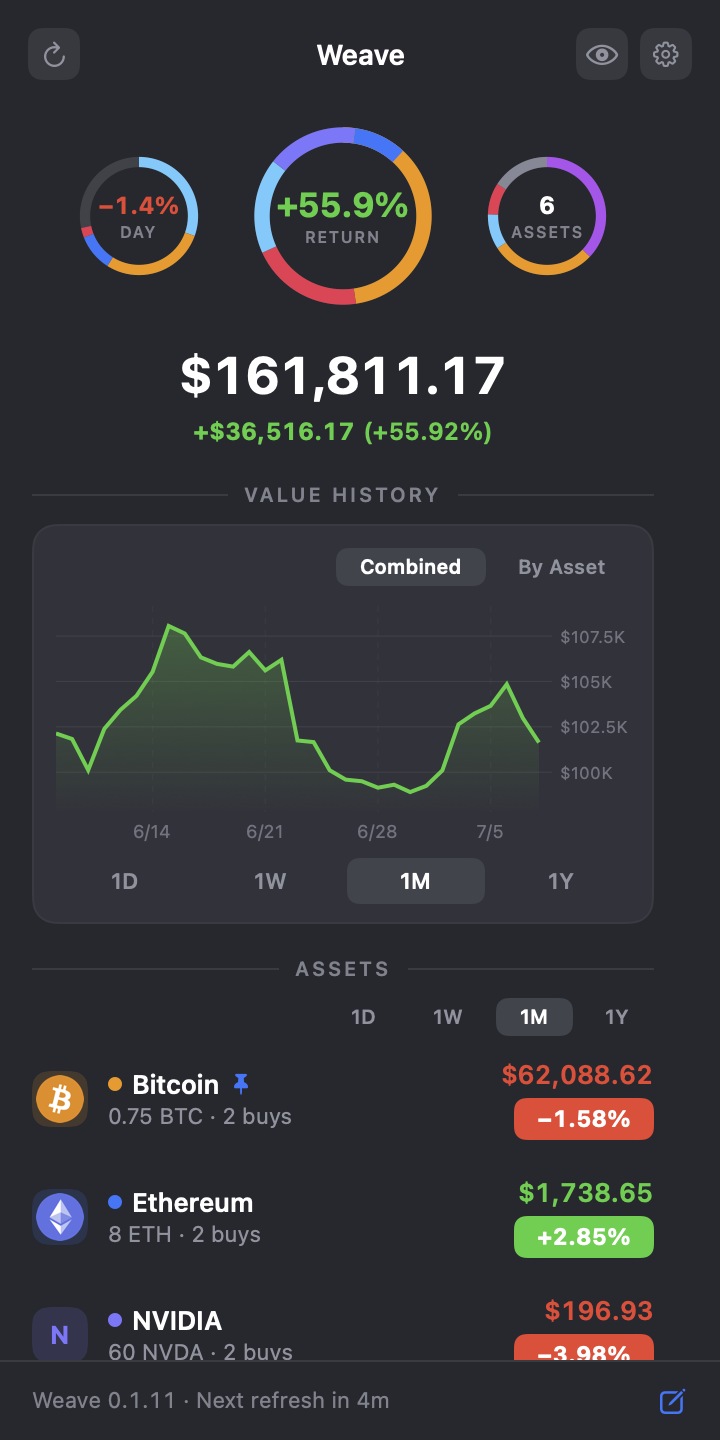
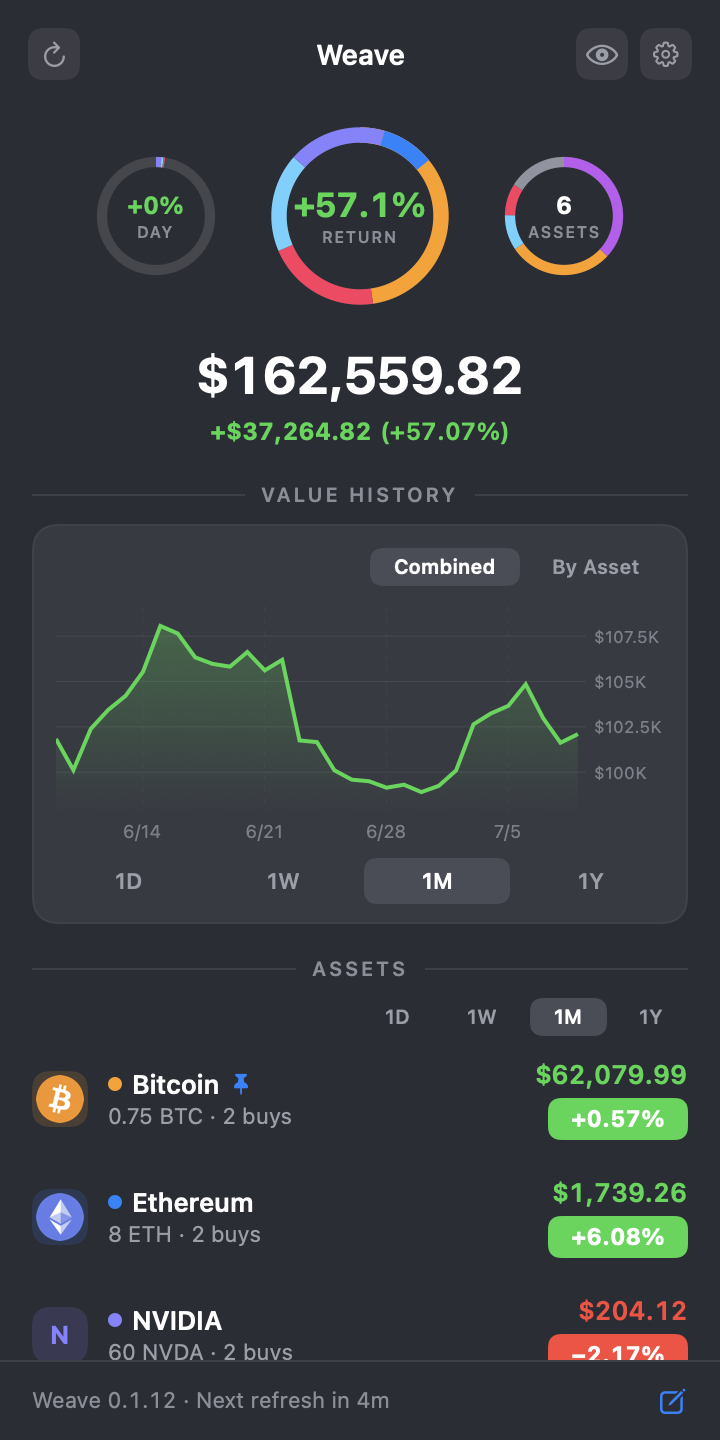
feat: support 4 screenshot captures (portfolio, asset detail, By Asset, menu bar)
Specify the state via WEAVE_SHOT_STATE: home-combined/detail/home-byasset render
the popover, while menubar renders the menu bar label on a dark strip (plus a clock).
Popover capture retries if it can't grab the window (guarding against a dropped first click), and the
dark appearance is locked during a shot. Access the label image via AppModel.shared.

diff --git a/Sources/Weave/WeaveApp.swift b/Sources/Weave/WeaveApp.swift
@@ -31,37 +31,110 @@ final class AppDelegate: NSObject, NSApplicationDelegate {
 
         let env = ProcessInfo.processInfo.environment
         // 개발용: 스크린샷 자동화를 위해 실행 직후 팝오버를 연다.
-        if env["WEAVE_OPEN_POPOVER"] == "1" || env["WEAVE_SHOT"] != nil {
+        if env["WEAVE_OPEN_POPOVER"] == "1" {
             DispatchQueue.main.asyncAfter(deadline: .now() + 1.5) {
                 HotkeyManager.toggleMenuBarWindow()
             }
         }
-        // 개발용: 팝오버가 열린 뒤 그 창을 자체 렌더해 PNG로 저장하고 종료한다.
-        // 자기 뷰를 비트맵으로 캐시하는 방식이라 화면 녹화 권한이 필요 없다.
+        // 개발용: 시드 상태를 자체 렌더해 PNG로 저장하고 종료(화면 녹화 권한 불필요).
+        // menubar 상태는 상태바 아이템 창을, 그 외는 팝오버 창을 캡처한다.
         if let shotPath = env["WEAVE_SHOT"] {
-            let delay = Double(env["WEAVE_SHOT_DELAY"] ?? "") ?? 10
+            // 라벨 이름색(labelColor)이 어두운 배경에서도 보이도록 다크 외관 고정.
+            NSApp.appearance = NSAppearance(named: .darkAqua)
+            let state = env["WEAVE_SHOT_STATE"] ?? "home-combined"
+            let delay = Double(env["WEAVE_SHOT_DELAY"] ?? "") ?? 12
+            // 팝오버를 열어야 RootView가 떠서 시세·메뉴바 라벨 생성(백그라운드 작업)이 시작된다.
+            DispatchQueue.main.asyncAfter(deadline: .now() + 1.5) {
+                NSApp.activate(ignoringOtherApps: true)
+                HotkeyManager.toggleMenuBarWindow()
+            }
             DispatchQueue.main.asyncAfter(deadline: .now() + 1.5 + delay) {
-                Self.capturePopover(to: shotPath)
+                if state == "menubar" {
+                    Self.writeMenuBarMockup(to: shotPath)
+                } else {
+                    Self.capturePopover(to: shotPath, attempt: 0)
+                }
             }
         }
     }
 
-    /// 현재 열려 있는 팝오버 창의 contentView를 PNG로 캡처한 뒤 앱을 종료한다.
+    /// 팝오버 창을 캡처. 아직 안 열렸으면 다시 열고 재시도(최대 5회) — 첫 클릭이 씹히는 것 방어.
     @MainActor
-    static func capturePopover(to path: String) {
+    static func capturePopover(to path: String, attempt: Int) {
+        if writeWindow(matching: "MenuBarExtra", to: path) {
+            NSApp.terminate(nil)
+            return
+        }
+        guard attempt < 5 else { NSApp.terminate(nil); return }
+        NSApp.activate(ignoringOtherApps: true)
+        HotkeyManager.toggleMenuBarWindow()
+        DispatchQueue.main.asyncAfter(deadline: .now() + 1.5) {
+            capturePopover(to: path, attempt: attempt + 1)
+        }
+    }
+
+    /// 메뉴바 라벨(model.menuBarImage)을 어두운 메뉴바 스트립(+시계) 위에 얹어 PNG로 저장.
+    @MainActor
+    static func writeMenuBarMockup(to path: String) {
         defer { NSApp.terminate(nil) }
+        guard let label = AppModel.shared?.menuBarImage else { return }
+        let scale: CGFloat = 2
+        let barH: CGFloat = 30
+        let padX: CGFloat = 18
+        let gap: CGFloat = 22
+        let clock = NSAttributedString(
+            string: "9:41",
+            attributes: [
+                .font: NSFont.systemFont(ofSize: 13, weight: .semibold),
+                .foregroundColor: NSColor.white
+            ]
+        )
+        let clockSize = clock.size()
+        let labelSize = label.size
+        let width = padX + ceil(labelSize.width) + gap + ceil(clockSize.width) + padX
+        guard let rep = NSBitmapImageRep(
+            bitmapDataPlanes: nil,
+            pixelsWide: Int(width * scale), pixelsHigh: Int(barH * scale),
+            bitsPerSample: 8, samplesPerPixel: 4, hasAlpha: true, isPlanar: false,
+            colorSpaceName: .deviceRGB, bytesPerRow: 0, bitsPerPixel: 0
+        ) else { return }
+        rep.size = NSSize(width: width, height: barH)
+        guard let ctx = NSGraphicsContext(bitmapImageRep: rep) else { return }
+        NSGraphicsContext.saveGraphicsState()
+        NSGraphicsContext.current = ctx
+        NSColor(srgbRed: 0.13, green: 0.14, blue: 0.17, alpha: 1).setFill()
+        NSBezierPath(roundedRect: NSRect(x: 0, y: 0, width: width, height: barH), xRadius: 9, yRadius: 9).fill()
+        label.draw(
+            at: NSPoint(x: padX, y: (barH - labelSize.height) / 2),
+            from: .zero, operation: .sourceOver, fraction: 1
+        )
+        clock.draw(at: NSPoint(x: width - padX - ceil(clockSize.width), y: (barH - clockSize.height) / 2))
+        NSGraphicsContext.restoreGraphicsState()
+        if let data = rep.representation(using: .png, properties: [:]) {
+            try? data.write(to: URL(fileURLWithPath: path))
+        }
+    }
+
+    /// className에 cls가 들어가는 첫 가시 창의 contentView를 PNG로 저장. 성공 시 true.
+    @MainActor
+    @discardableResult
+    static func writeWindow(matching cls: String, to path: String) -> Bool {
         guard
             let window = NSApp.windows.first(where: {
-                $0.isVisible && $0.contentView != nil && !$0.className.contains("NSStatusBar")
+                $0.isVisible && $0.contentView != nil && $0.className.contains(cls)
             }),
             let view = window.contentView,
             let rep = view.bitmapImageRepForCachingDisplay(in: view.bounds)
         else {
-            return
+            return false
         }
         view.cacheDisplay(in: view.bounds, to: rep)
-        if let data = rep.representation(using: .png, properties: [:]) {
-            try? data.write(to: URL(fileURLWithPath: path))
+        guard let data = rep.representation(using: .png, properties: [:]) else { return false }
+        do {
+            try data.write(to: URL(fileURLWithPath: path))
+            return true
+        } catch {
+            return false
         }
     }
 }

diff --git a/Sources/Weave/App/AppModel.swift b/Sources/Weave/App/AppModel.swift
@@ -21,6 +21,9 @@ enum Route: Hashable {
 
 @MainActor
 final class AppModel: ObservableObject {
+    /// 스크린샷 도구가 메뉴바 라벨 이미지에 접근하기 위한 약참조(dev 전용).
+    static weak var shared: AppModel?
+
     @Published var document: PortfolioDocument
     @Published var quotes: [UUID: Quote] = [:]
     @Published var fxRates: [String: Decimal] = [:]
@@ -116,6 +119,7 @@ final class AppModel: ObservableObject {
                 .error("포트폴리오 로드 실패: \(error.localizedDescription)")
             self.document = .empty
         }
+        AppModel.shared = self
     }
 
     /// 프로덕션 조립 — 스토어/캐시 경로 실패 시 임시 디렉토리 폴백.
@@ -263,11 +267,17 @@ final class AppModel: ObservableObject {
             return
         }
         hasStartedBackgroundWork = true
-        // 스크린샷용: 최근 상승 구간이 잘 보이도록 차트·배지를 1M로 맞춘다.
-        // (% 배지는 기간 시장 등락 기준이라 1M가 최근 흐름을 가장 우호적으로 보여준다.)
-        if ProcessInfo.processInfo.environment["WEAVE_SHOT"] != nil {
+        // 스크린샷용: 상태(홈 Combined / By Asset / 종목 세부)를 env로 지정해 캡처.
+        let shotEnv = ProcessInfo.processInfo.environment
+        if shotEnv["WEAVE_SHOT"] != nil {
+            let state = shotEnv["WEAVE_SHOT_STATE"] ?? "home-combined"
+            if state == "home-byasset" { homeChartMode = .perAsset }
+            // 모드 확정 뒤 기간을 잡아야 모드별 복원값에 안 덮인다. 1M가 최근 상승 흐름을 잘 보여준다.
             homeChartPeriod = .oneMonth
             assetReturnPeriod = .month
+            if state == "detail", let id = visibleAssets.first?.id {
+                push(.detail(id))
+            }
         }
         restartRefreshLoop()
         restartRotationLoop()